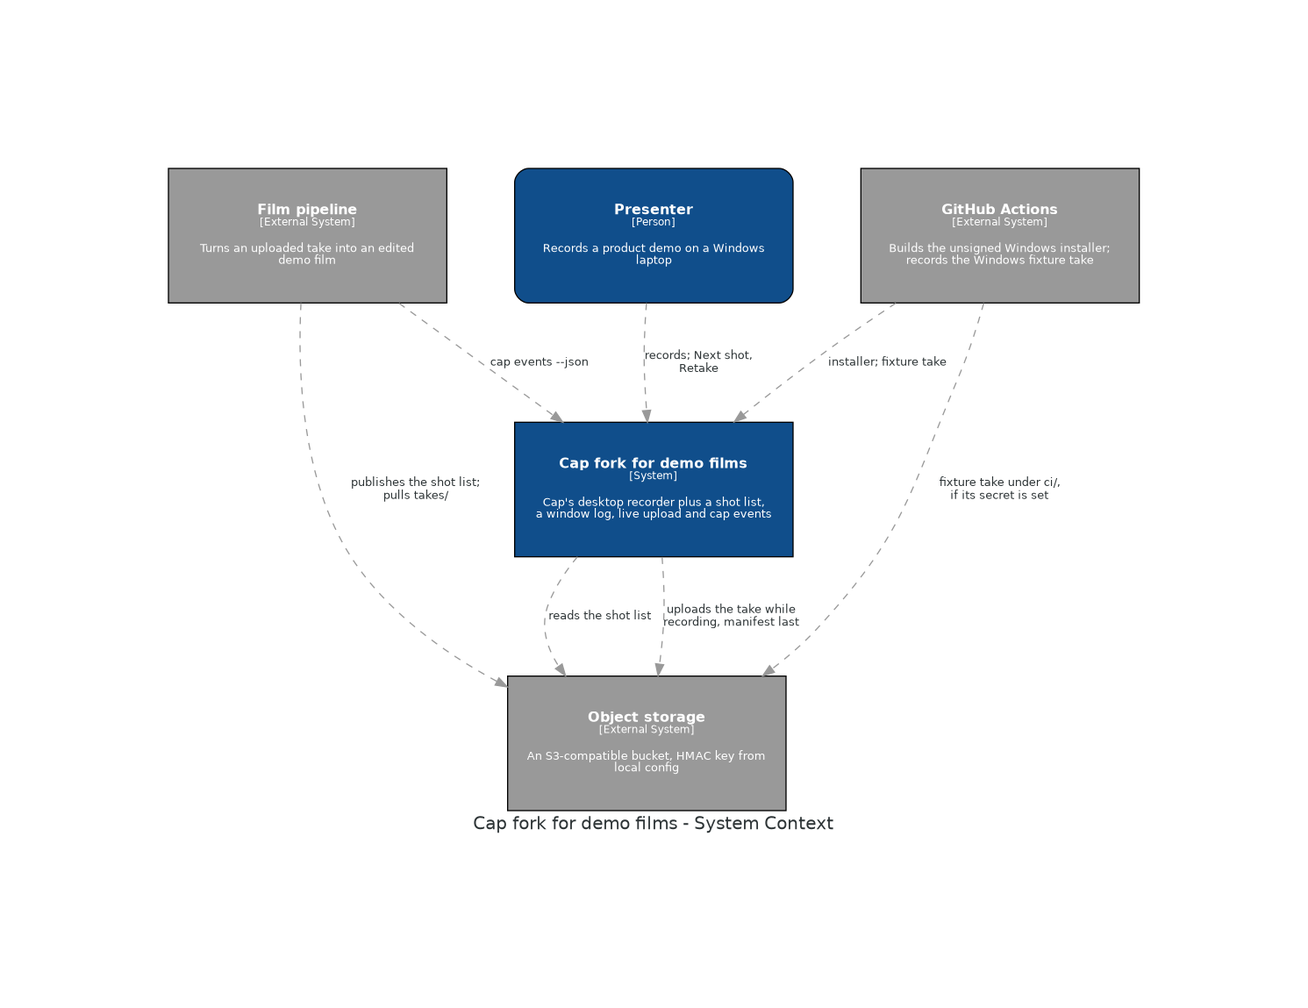
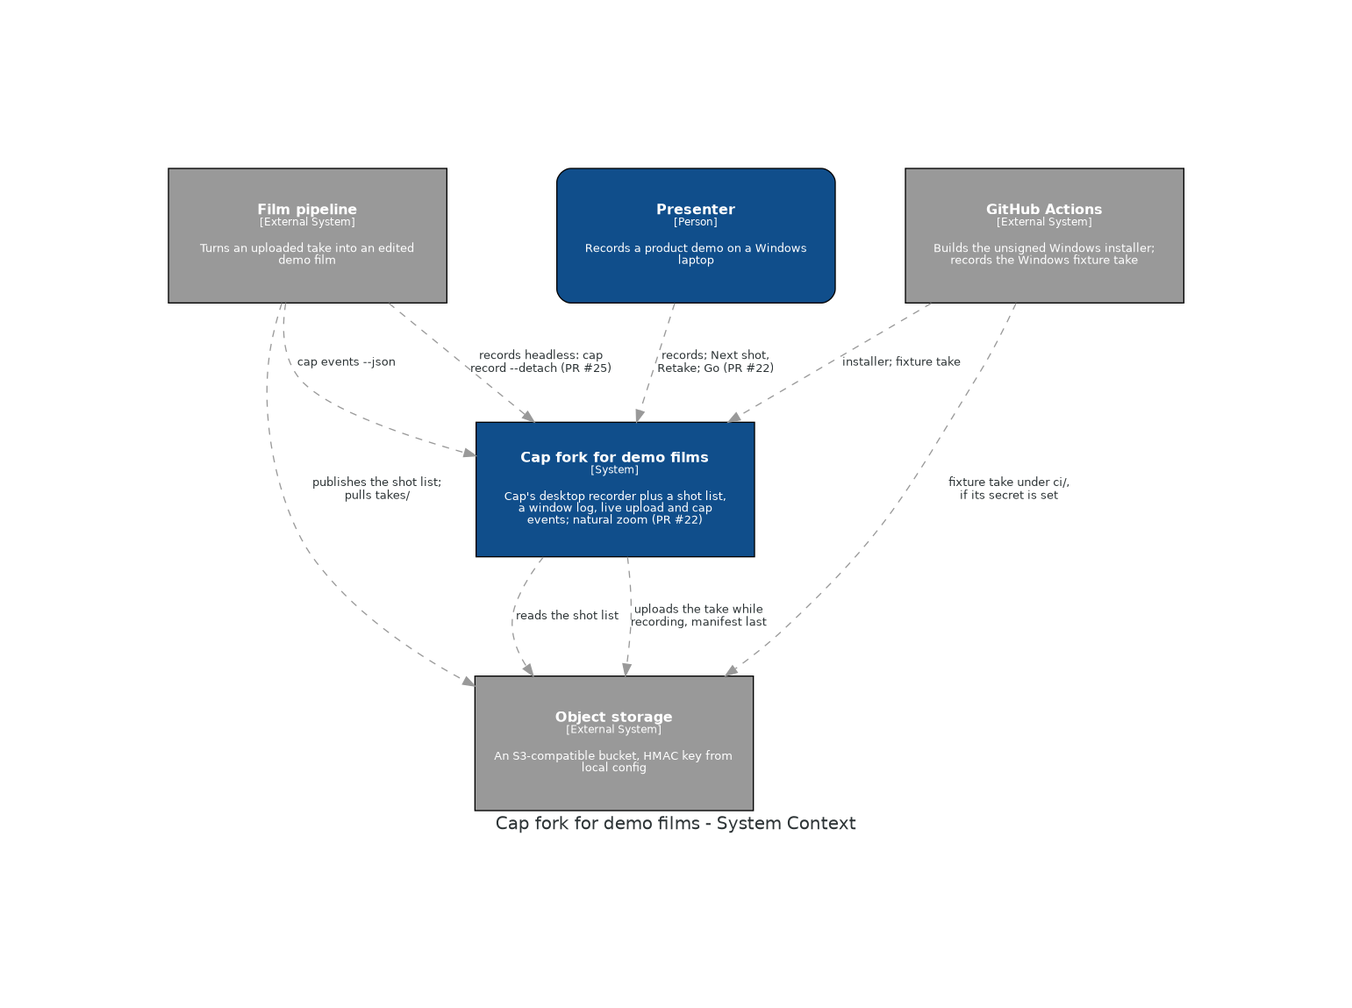
docs: C4 levels 1 to 4 from the code, with R-8 to R-10 tagged by PR (T-865)
c4.py draws the open PRs' work at every level, tagged "(PR #22)", "(PR #26)"
or "(PR #25)" until the file or its marker text is in the tree, so each tag
drops by itself on merge. Level 4 is split into the desktop app and the
mirror crate, CLI and CI, each showing calls into the other as one grey box.
README gets an Architecture section with the five diagrams, each linking to
its full size.

diff --git a/docs/architecture/c4.py b/docs/architecture/c4.py
@@ -4,12 +4,15 @@
 # ///
 """C4 diagrams of this fork, levels 1 to 4, and the README section that shows them.
 
-    uv run docs/architecture/c4.py            # writes c4_context.png ... c4_code.png beside this file
+    uv run docs/architecture/c4.py            # writes c4_context.png ... c4_code_tools.png beside this file
     uv run docs/architecture/c4.py context    # just one level
 
 Level 4 is read from the code on every run: each fork file that exists is drawn with its public
 functions (a workflow with its steps), and one not yet in the tree is drawn as "not built yet". A
-level 4 arrow is drawn only when the call it names is in the source file it starts from. The README
+level 4 arrow is drawn only when the call it names is in the source file it starts from. Work still
+in an open pull request is tagged "(PR #N)" at every level until the file or the text that marks it
+is in the tree, so the tag drops by itself once the PR merges. Level 4 is two diagrams, the desktop
+app and then the mirror crate, CLI and CI, each showing calls into the other as one grey box. The README
 section between the fork markers is rewritten too, so its Known limitations list always matches the
 `// shortcut:` comments in the fork's code. This repo is public: no bucket, key, host or address
 appears here.
@@ -38,8 +41,25 @@ SHORTCUT = re.compile(r"//+[ \t]*shortcut:[ \t]*([^\n]*(?:\n[ \t]*//+(?![ \t]*sh
 SHORTCUT_DIRS = ("apps/desktop-gpui/src", "apps/desktop-gpui/gcs-mirror/src", "apps/cli/src", "crates/verify-stimulus/src")
 START, END = "<!-- fork:start (written by docs/architecture/c4.py) -->", "<!-- fork:end -->"
 BUCKET = "Object storage"
+# Open pull requests the diagrams already show: R-8 stop and go cues and natural zoom, R-9 pick-ups,
+# R-10 the CLI recording headless for the agent recorder.
+R8, R9, R10 = "PR #22", "PR #26", "PR #25"
+PRS = {R8: "stop and go cues, natural auto zoom", R9: "pick-ups from the republished shot list",
+       R10: "headless `cap record --detach` for the agent recorder"}
 
-# Level 4: the code the fork adds or changes, grouped by where it runs, as (path, what it does).
+
+def built(path, marker=None):
+    """Whether `path` is in this tree and, when a marker is given, contains it."""
+    file = ROOT / path
+    return file.is_file() and (marker is None or marker in file.read_text())
+
+
+def pending(pr, path, marker=None):
+    """' (PR #N)' until that PR's file, or its marker text, is in the tree."""
+    return "" if built(path, marker) else f" ({pr})"
+
+# Level 4: the code the fork adds or changes, grouped by where it runs, as (path, what it does,
+# then any open PR's change to it as (pr, text that marks it in the file, what it adds)).
 APP, CRATE, CLI, CI, UPSTREAM = (
     "Desktop app (apps/desktop-gpui/src)",
     "cap-gcs-mirror crate (apps/desktop-gpui/gcs-mirror)",
@@ -51,21 +71,34 @@ CODE = {
     APP: [
         ("apps/desktop-gpui/src/recording.rs", "Studio start: starts the mirror and the window log; finalize: mirror stop before the remux"),
         ("apps/desktop-gpui/src/session.rs", "Recording phases; shot_time(): take dir and (segment, ms) on the start-gate clock"),
-        ("apps/desktop-gpui/src/teleprompter_window.rs", "Shows the shot on screen; load_shot_list GETs it from storage; mark_shot"),
-        ("apps/desktop-gpui/src/shots.rs", "pick the stored or local list, parse (shotlist rules), ShotClock, mark -> shots.json"),
+        ("apps/desktop-gpui/src/teleprompter_window.rs", "Shows the shot on screen; load_shot_list GETs it from storage; mark_shot",
+         (R8, "Cue::", "STOP cue, next shot's card, Go with a 3-2-1 countdown"),
+         (R9, "fn reload_shot_list", "re-reads the shot list at each take start; pick-ups and what's left")),
+        ("apps/desktop-gpui/src/shots.rs", "pick the stored or local list, parse (shotlist rules), ShotClock, mark -> shots.json",
+         (R8, "pub enum Cue", "Cue, countdown, zoomless (shots marked zoom: none)"),
+         (R9, "pub struct Reads", "Reads (latest read wins), Progress")),
         ("apps/desktop-gpui/src/hotkeys.rs", "Ctrl+Alt+N / Ctrl+Alt+R while a shot list shows -> Next shot / Retake"),
         ("apps/desktop-gpui/src/window_log.rs", "Windows: foreground window every 250 ms -> windows.jsonl, on change only"),
         ("apps/desktop-gpui/src/window_log/change.rs", "What counts as a change; time_ms from the segment's start-gate epoch"),
         ("apps/desktop-gpui/src/gcs_mirror.rs", "Reads mirror.json from app data; start, stop, resume_pending"),
         ("apps/desktop-gpui/src/theme.rs", "Light palette and type tokens for the restyle"),
+        ("apps/desktop-gpui/src/editor_window.rs", "The editor; its generate button builds the zoom track",
+         (R8, "generate_natural_zoom_for_timeline", "natural zoom over the take's cursor and keys, none in zoom: none shots")),
+        ("apps/desktop-gpui/src/editor_edits.rs", "Timeline edits, zoom segments and springs",
+         (R8, "generate_natural_zoom_for_timeline", "natural zoom track, NATURAL_ZOOM_SPRING (0.75 s)")),
+        ("apps/desktop-gpui/src/natural_zoom.rs", "Zoom only where work dwells 1.5 s in under 40% of the frame; 6 s apart, under 35% zoomed",
+         (R8, None, "new file")),
     ],
     CRATE: [
         ("apps/desktop-gpui/gcs-mirror/src/lib.rs", "Mirror: outbox hard links, scan, freeze -> stop.json, drain, manifest last"),
         ("apps/desktop-gpui/gcs-mirror/src/sigv4.rs", "SigV4 signing for the XML API with an HMAC key"),
-        ("apps/desktop-gpui/gcs-mirror/src/bin/cap-driver.rs", "Test adapter, JSON on stdin: sign, scan, stop, resume, shots, windows"),
+        ("apps/desktop-gpui/gcs-mirror/src/bin/cap-driver.rs", "Test adapter, JSON on stdin: sign, scan, stop, resume, shots, windows",
+         (R8, "fn zoom_op", "prompter and zoom ops")),
     ],
     CLI: [
         ("apps/cli/src/events.rs", "cap events <take> --json: cursor.json and keyboard.bin as one sorted list"),
+        ("apps/cli/src/record.rs", "cap record: studio takes from the command line, foreground or --detach",
+         (R10, "remux: bool", "a --detach take keeps Cap's fragments for uploading whole")),
     ],
     CI: [
         (".github/workflows/verify-recording.yml", "windows-2022: a real studio take of the stimulus with SendInput clicks"),
@@ -77,28 +110,32 @@ CODE = {
         ("crates/recording/src/output_pipeline/start_gate.rs", "The start-gate epoch every take time is measured from"),
     ],
 }
-# Level 4 arrows as (from, the text that must be in `from`, to, label).
+# Level 4 arrows as (from, the text that must be in `from`, to, label, and the open PR that adds it).
 CALLS = [
     ("apps/desktop-gpui/src/recording.rs", "gcs_mirror::start", "apps/desktop-gpui/src/gcs_mirror.rs", "start; stop before remux"),
     ("apps/desktop-gpui/src/recording.rs", "window_log::start", "apps/desktop-gpui/src/window_log.rs", "start, stop"),
     ("apps/desktop-gpui/src/window_log.rs", "mod change", "apps/desktop-gpui/src/window_log/change.rs", "detects changes, times lines"),
-    ("apps/desktop-gpui/src/session.rs", "window_log::set_paused", "apps/desktop-gpui/src/window_log.rs", "set_paused"),
+    ("apps/desktop-gpui/src/session.rs", "window_log::set_paused", "apps/desktop-gpui/src/window_log.rs", "set_paused on pause and resume"),
     ("apps/desktop-gpui/src/hotkeys.rs", "view.mark_shot", "apps/desktop-gpui/src/teleprompter_window.rs", "mark_shot"),
     ("apps/desktop-gpui/src/teleprompter_window.rs", "shot_time()", "apps/desktop-gpui/src/session.rs", "shot_time"),
     ("apps/desktop-gpui/src/teleprompter_window.rs", "shots::pick", "apps/desktop-gpui/src/shots.rs", "pick, mark"),
     ("apps/desktop-gpui/src/teleprompter_window.rs", "cap_gcs_mirror::request", "apps/desktop-gpui/gcs-mirror/src/lib.rs", "GET the shot list"),
-    ("apps/desktop-gpui/src/session.rs", "armed_at", "crates/recording/src/output_pipeline/start_gate.rs", "armed instant"),
-    ("apps/desktop-gpui/src/recording.rs", "armed_at", "crates/recording/src/output_pipeline/start_gate.rs", "window log epoch"),
+    ("apps/desktop-gpui/src/session.rs", "armed_at", "crates/recording/src/output_pipeline/start_gate.rs", "armed_at: the shot clock's epoch"),
+    ("apps/desktop-gpui/src/recording.rs", "armed_at", "crates/recording/src/output_pipeline/start_gate.rs", "armed_at: the window log's epoch"),
     ("apps/desktop-gpui/src/gcs_mirror.rs", "Mirror::new", "apps/desktop-gpui/gcs-mirror/src/lib.rs", "Mirror, spawn, stop, drain"),
     ("apps/desktop-gpui/gcs-mirror/src/lib.rs", "sigv4::authorize", "apps/desktop-gpui/gcs-mirror/src/sigv4.rs", "authorize"),
     ("apps/desktop-gpui/gcs-mirror/src/bin/cap-driver.rs", "Mirror::new", "apps/desktop-gpui/gcs-mirror/src/lib.rs", "scan, stop, resume"),
-    ("apps/desktop-gpui/gcs-mirror/src/bin/cap-driver.rs", "src/shots.rs", "apps/desktop-gpui/src/shots.rs", "includes by path"),
-    ("apps/desktop-gpui/gcs-mirror/src/bin/cap-driver.rs", "src/window_log/change.rs", "apps/desktop-gpui/src/window_log/change.rs", "includes by path"),
-    ("crates/verify-stimulus/src/bin/window_log_probe.rs", "src/window_log.rs", "apps/desktop-gpui/src/window_log.rs", "includes by path"),
+    ("apps/desktop-gpui/gcs-mirror/src/bin/cap-driver.rs", "src/shots.rs", "apps/desktop-gpui/src/shots.rs", "compiled in by #[path]"),
+    ("apps/desktop-gpui/gcs-mirror/src/bin/cap-driver.rs", "src/window_log/change.rs", "apps/desktop-gpui/src/window_log/change.rs", "compiled in by #[path]"),
+    ("crates/verify-stimulus/src/bin/window_log_probe.rs", "src/window_log.rs", "apps/desktop-gpui/src/window_log.rs", "compiled in by #[path]"),
     (".github/workflows/verify-recording.yml", "cap-verify-stimulus", "crates/verify-stimulus/src/main.rs", "records the stimulus"),
     (".github/workflows/verify-recording.yml", "window-log-probe", "crates/verify-stimulus/src/bin/window_log_probe.rs", "runs"),
     (".github/workflows/verify-recording.yml", "op: \"shots\"", "apps/desktop-gpui/gcs-mirror/src/bin/cap-driver.rs", "shots, scan, stop"),
     (".github/workflows/verify-recording.yml", "events \"$take\" --json", "apps/cli/src/events.rs", "cap events --json"),
+    ("apps/desktop-gpui/src/editor_window.rs", "generate_natural_zoom_for_timeline", "apps/desktop-gpui/src/editor_edits.rs", "generate the zoom track", R8),
+    ("apps/desktop-gpui/src/editor_window.rs", "shots::zoomless", "apps/desktop-gpui/src/shots.rs", "zoomless", R8),
+    ("apps/desktop-gpui/src/editor_edits.rs", "natural_zoom(", "apps/desktop-gpui/src/natural_zoom.rs", "natural_zoom, stock", R8),
+    ("apps/desktop-gpui/gcs-mirror/src/bin/cap-driver.rs", "src/natural_zoom.rs", "apps/desktop-gpui/src/natural_zoom.rs", "compiled in by #[path]", R8),
 ]
 
 
@@ -111,15 +148,17 @@ def context():
     """Level 1: who uses the fork and what it talks to."""
     with draw("context", "System Context"):
         lead = Person("Presenter", "Records a product demo on a Windows laptop")
-        fork = System(SYSTEM, "Cap's desktop recorder plus a shot list, a window log, live upload and cap events")
+        fork = System(SYSTEM, "Cap's desktop recorder plus a shot list, a window log, live upload and cap events"
+                      + "; natural zoom" + pending(R8, "apps/desktop-gpui/src/natural_zoom.rs"))
         store = System(BUCKET, "An S3-compatible bucket, HMAC key from local config", external=True)
         pipeline = System("Film pipeline", "Turns an uploaded take into an edited demo film", external=True)
         ci = System("GitHub Actions", "Builds the unsigned Windows installer; records the Windows fixture take", external=True)
-        lead >> Relationship("records; Next shot, Retake") >> fork
+        lead >> Relationship("records; Next shot, Retake; Go" + pending(R8, "apps/desktop-gpui/src/shots.rs", "pub enum Cue")) >> fork
         fork >> Relationship("reads the shot list") >> store
         fork >> Relationship("uploads the take while recording, manifest last") >> store
         pipeline >> Relationship("publishes the shot list; pulls takes/") >> store
         pipeline >> Relationship("cap events --json") >> fork
+        pipeline >> Relationship("records headless: cap record --detach" + pending(R10, "apps/cli/src/record.rs", "remux: bool")) >> fork
         ci >> Relationship("installer; fixture take") >> fork
         ci >> Relationship("fixture take under ci/, if its secret is set") >> store
 
@@ -129,17 +168,25 @@ def container():
     with draw("container", "Containers"):
         lead = Person("Presenter", "")
         with SystemBoundary(SYSTEM):
-            app = Container("Desktop app", "Rust, GPUI (apps/desktop-gpui)", "Studio recording, teleprompter shot list, window log, upload mirror")
-            cli = Container("cap CLI", "Rust (apps/cli), same commit", "cap events <take> --json")
-            driver = Container("cap-driver", "Rust (gcs-mirror crate, test binary)", "The mirror, shot and window-change logic, one JSON request per run")
+            app = Container("Desktop app", "Rust, GPUI (apps/desktop-gpui)", "Studio recording, teleprompter shot list, window log, upload mirror;"
+                            " editor natural zoom" + pending(R8, "apps/desktop-gpui/src/natural_zoom.rs"))
+            cli = Container("cap CLI", "Rust (apps/cli), same commit", "cap events <take> --json; cap record --detach keeps the fragments"
+                            + pending(R10, "apps/cli/src/record.rs", "remux: bool"))
+            driver = Container("cap-driver", "Rust (gcs-mirror crate, test binary)", "The mirror, shot and window-change logic, one JSON request per run;"
+                               " prompter and zoom ops" + pending(R8, "apps/desktop-gpui/gcs-mirror/src/bin/cap-driver.rs", "fn zoom_op"))
             fixture = Container("Recording fixture", "GitHub Actions, windows-2022", "Studio take of the stimulus, SendInput clicks, artefact")
             release = Container("Release workflow", "GitHub Actions, windows-2022", "Unsigned installer, no updater artefacts")
             vendor = Database("contracts/vendor/0.1.0", "JSON Schema from the film repo", "shotlist, shots, windows, cap-events, manifest")
         store = Database(BUCKET, "S3-compatible", "shotlist/current.json; takes/<take>/ with the manifest last; ci/")
         take = Database("Take folder", "<take>.cap on the laptop", "Cap's files, plus shots.json, windows.jsonl, outbox/")
+        recorder = System("Agent recorder", "Films click-through shots headless, under Xvfb", external=True)
         lead >> Relationship("record; Next shot, Retake") >> app
+        recorder >> Relationship("cap record --detach" + pending(R10, "apps/cli/src/record.rs", "remux: bool")) >> cli
+        cli >> Relationship("writes") >> take
         app >> Relationship("writes") >> take
-        app >> Relationship("GET the shot list; PUT the take, manifest last") >> store
+        app >> Relationship("GET the shot list at each take start"
+                            + pending(R9, "apps/desktop-gpui/src/teleprompter_window.rs", "fn reload_shot_list")) >> store
+        app >> Relationship("PUT the take, manifest last") >> store
         app >> Relationship("parses the shot list by the rules of") >> vendor
         cli >> Relationship("reads cursor.json, keyboard.bin") >> take
         fixture >> Relationship("shots, scan, stop") >> driver
@@ -156,7 +203,14 @@ def component():
             gate = Component("Start gate", "crates/recording, reused", "The armed instant cursor.json, shots and windows count from")
             keys = Component("Shot hotkeys", "hotkeys.rs", "Ctrl+Alt+N, Ctrl+Alt+R while a shot list shows")
             tele = Component("Teleprompter", "teleprompter_window.rs", "Shows the shot on screen; Next shot, Retake")
+            cues = Component("Stop and go cues" + pending(R8, "apps/desktop-gpui/src/shots.rs", "pub enum Cue"), "shots.rs, teleprompter_window.rs",
+                             "STOP at a shot's end, the next shot's card, Go with 3-2-1; resumes as a new segment")
+            pickups = Component("Pick-ups" + pending(R9, "apps/desktop-gpui/src/shots.rs", "pub struct Reads"), "shots.rs, teleprompter_window.rs",
+                                "Re-reads the republished shot list at each take start; shows what's left")
             shots = Component("Shots", "shots.rs", "Stored list or local file; parse; marks -> shots.json")
+            editor = Component("Editor zoom track", "editor_window.rs, editor_edits.rs", "Generate button: zoom segments from cursor.json and keys")
+            zoom = Component("Natural zoom" + pending(R8, "apps/desktop-gpui/src/natural_zoom.rs"), "natural_zoom.rs",
+                             "In where work dwells 1.5 s in a small region, out after 2 s idle; 6 s apart, under 35% zoomed")
             win = Component("Window log", "window_log.rs", "Windows only: foreground title and process on change")
             wiring = Component("Mirror wiring", "gcs_mirror.rs", "mirror.json from app data; start, stop, resume_pending")
             mirror = Component("Mirror", "gcs-mirror crate: lib.rs, sigv4.rs", "outbox/ hard links, uploaded.jsonl, stop.json, manifest last")
@@ -166,6 +220,12 @@ def component():
         tele >> Relationship("pick, mark") >> shots
         tele >> Relationship("shot_time") >> rec
         tele >> Relationship("signed GET") >> mirror
+        tele >> Relationship("shows") >> cues
+        tele >> Relationship("shows") >> pickups
+        cues >> Relationship("Go starts a new segment") >> rec
+        pickups >> Relationship("signed GET at take start") >> mirror
+        editor >> Relationship("moves, clicks, keys; zoom: none shots") >> zoom
+        editor >> Relationship("reads cursor.json, shots.json") >> take
         rec >> Relationship("armed instant") >> gate
         rec >> Relationship("start, pause, stop") >> win
         rec >> Relationship("start; stop before remux") >> wiring
@@ -184,25 +244,48 @@ def outline(path, text):
     return "fns: " + ", ".join(names[:6]) + (", ..." if len(names) > 6 else "") if names else ""
 
 
-def code():
-    """Level 4: the fork's files as they are in this tree, with what they define."""
-    # left to right: one column per call depth keeps 17 files narrow enough for a README
-    with draw("code", "Code (read from the tree)", "LR"):
-        nodes, sources = {}, {}
+def code(level, title, groups, other):
+    """Level 4: the fork's files in `groups` as they are in this tree, with what they define."""
+    files = {path: entry for group in groups for path, *entry in CODE[group]}
+    sources = {path: (ROOT / path).read_text() if (ROOT / path).is_file() else None
+               for entries in CODE.values() for path, *_ in entries}
+    # left to right: one column per call depth keeps the files narrow enough for a README
+    with draw(level, title, "LR"):
+        nodes = {}
         with SystemBoundary("Fork code"):
-            for group, files in CODE.items():
+            for group in groups:
                 with Cluster(group):
-                    for path, what in files:
-                        file = ROOT / path
-                        sources[path] = file.read_text() if file.is_file() else None
-                        detail = what + (". " + outline(path, sources[path]) if sources[path] else "")
-                        name = Path(path).name + ("" if sources[path] else " (not built yet)")
+                    for path, *_ in CODE[group]:
+                        what, *changes = files[path]
+                        # an open PR's change leads, as the label keeps only three lines
+                        waiting = [(pr, note) for pr, marker, note in changes if not built(path, marker)]
+                        detail = "".join(f"{pr}: {note}. " for pr, note in waiting) + what
+                        detail += ". " + outline(path, sources[path]) if sources[path] else ""
+                        tag = " (" + ", ".join(pr for pr, _ in waiting) + ")" if waiting else ""
+                        name = Path(path).name + (tag if sources[path] or waiting else " (not built yet)")
                         nodes[path] = File(name, str(Path(path).parent), detail)
-        for start, call, end, label in CALLS:
-            if call in (sources[start] or "") and sources[end]:
-                nodes[start] >> Relationship(label) >> nodes[end]
+        # calls into the other code diagram share one grey box, one arrow per (file, label)
+        across = {}
+        for start, call, end, label, *pr in CALLS:
+            found = call in (sources[start] or "") and sources[end]
+            if start not in files or not (found or pr):
+                continue
+            tag = "" if found else f" ({pr[0]})"
+            if end in nodes:
+                nodes[start] >> Relationship(label + tag) >> nodes[end]
+            else:
+                across.setdefault((start, label), []).append(Path(end).name + tag)
+        if across:
+            elsewhere = File(other, "", f"shown in the {other} diagram", fillcolor="gray55")
+            for (start, label), names in across.items():
+                nodes[start] >> Relationship(f"{label}: {', '.join(names)}") >> elsewhere
 
-LEVELS = {"context": context, "container": container, "component": component, "code": code}
+
+LEVELS = {
+    "context": context, "container": container, "component": component,
+    "code": partial(code, "code", "Code: the desktop app", (APP, UPSTREAM), "mirror-crate code"),
+    "code_tools": partial(code, "code_tools", "Code: mirror crate, CLI and CI", (CRATE, CLI, CI), "desktop-app code"),
+}
 
 
 def shortcuts():
@@ -222,7 +305,11 @@ def shortcuts():
 def readme():
     """Rewrite the fork section of README.md, placed below upstream's header on the first run."""
     limits = "\n".join(f"- `{item or Path(path).name}` (`{path}`): {text}" for path, text, item in shortcuts())
-    images = "\n".join(f"![C4 {level}](docs/architecture/c4_{level}.png)" for level in LEVELS)
+    # each links to itself, as the code levels are only readable full size
+    images = "\n\n".join(f"[![C4 {level}](docs/architecture/c4_{level}.png)](docs/architecture/c4_{level}.png)" for level in LEVELS)
+    waiting = [f"{pr} ({what})" for pr, what in PRS.items() if any(
+        pr == change[0] and not built(path, change[1]) for files in CODE.values() for path, _, *rest in files for change in rest)]
+    open_prs = " A box or arrow tagged (PR #N) is in that open pull request, not yet on main: " + "; ".join(waiting) + "." if waiting else ""
     section = f"""{START}
 ## This fork
 
@@ -243,11 +330,17 @@ gate's armed instant for segment 0, each resume for later segments), the clock `
 `stopped_at_unix_ms`, wall-clock Unix milliseconds (the gate's armed wall time plus the monotonic
 time since). `take-manifest.json` holds no times.
 
-{images}
-
 ### Known limitations
 
 {limits or "- None recorded."}
+
+## Architecture
+
+C4 diagrams of the fork, drawn by `docs/architecture/c4.py` from the code in this tree: the system in
+its context, the separately running pieces, the desktop app's components, and the fork's files with
+the calls between them, in two parts. Open a diagram for full size.{open_prs}
+
+{images}
 {END}"""
     path = ROOT / "README.md"
     text = path.read_text()

diff --git a/README.md b/README.md
@@ -48,15 +48,26 @@ gate's armed instant for segment 0, each resume for later segments), the clock `
 `stopped_at_unix_ms`, wall-clock Unix milliseconds (the gate's armed wall time plus the monotonic
 time since). `take-manifest.json` holds no times.
 
-![C4 context](docs/architecture/c4_context.png)
-![C4 container](docs/architecture/c4_container.png)
-![C4 component](docs/architecture/c4_component.png)
-![C4 code](docs/architecture/c4_code.png)
-
 ### Known limitations
 
 - `schedule_startup_check` (`apps/desktop-gpui/src/updates.rs`): unused since the fork dropped the startup check (main.rs); delete with the updater if it never returns.
 - `set_paused` (`apps/desktop-gpui/src/window_log.rs`): the resume is seen when the actor acknowledges it, a little after the new segment's epoch, so its first titles read slightly late.
+
+## Architecture
+
+C4 diagrams of the fork, drawn by `docs/architecture/c4.py` from the code in this tree: the system in
+its context, the separately running pieces, the desktop app's components, and the fork's files with
+the calls between them, in two parts. Open a diagram for full size. A box or arrow tagged (PR #N) is in that open pull request, not yet on main: PR #22 (stop and go cues, natural auto zoom); PR #26 (pick-ups from the republished shot list); PR #25 (headless `cap record --detach` for the agent recorder).
+
+[![C4 context](docs/architecture/c4_context.png)](docs/architecture/c4_context.png)
+
+[![C4 container](docs/architecture/c4_container.png)](docs/architecture/c4_container.png)
+
+[![C4 component](docs/architecture/c4_component.png)](docs/architecture/c4_component.png)
+
+[![C4 code](docs/architecture/c4_code.png)](docs/architecture/c4_code.png)
+
+[![C4 code_tools](docs/architecture/c4_code_tools.png)](docs/architecture/c4_code_tools.png)
 <!-- fork:end -->
 
 Cap is the open source alternative to Loom. It gives you fast screen recording, polished local editing, instant share links, comments, transcripts, analytics, team workspaces, custom domains, custom S3 storage, and full self-hosting when you need complete control.
